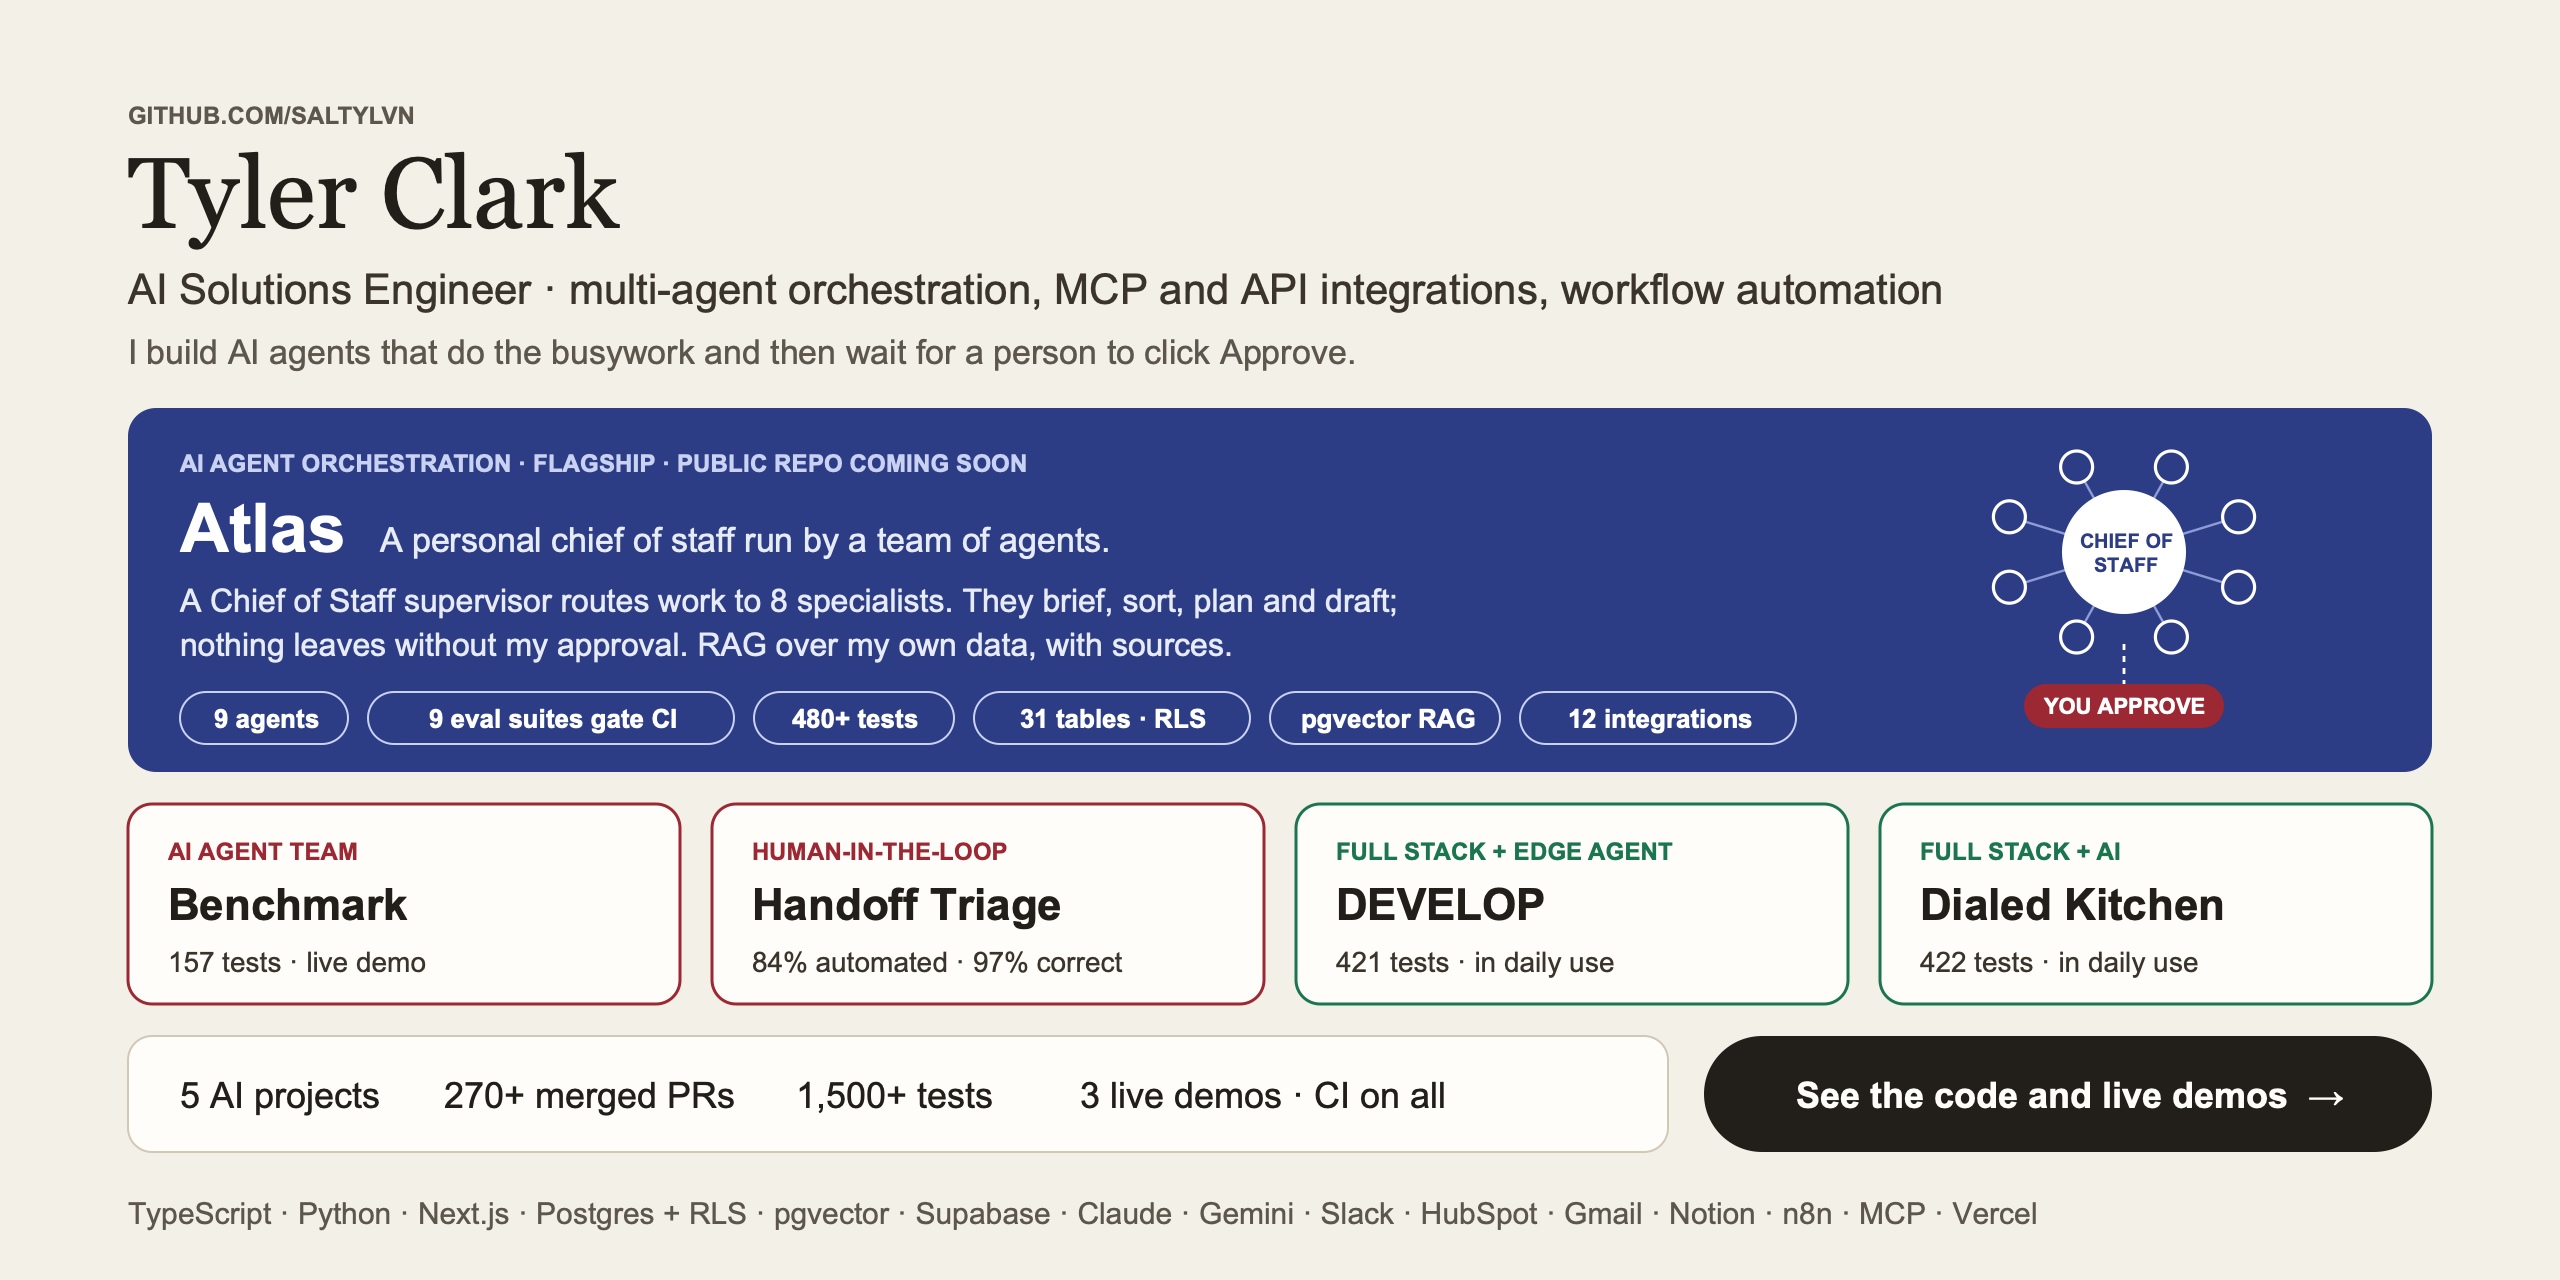
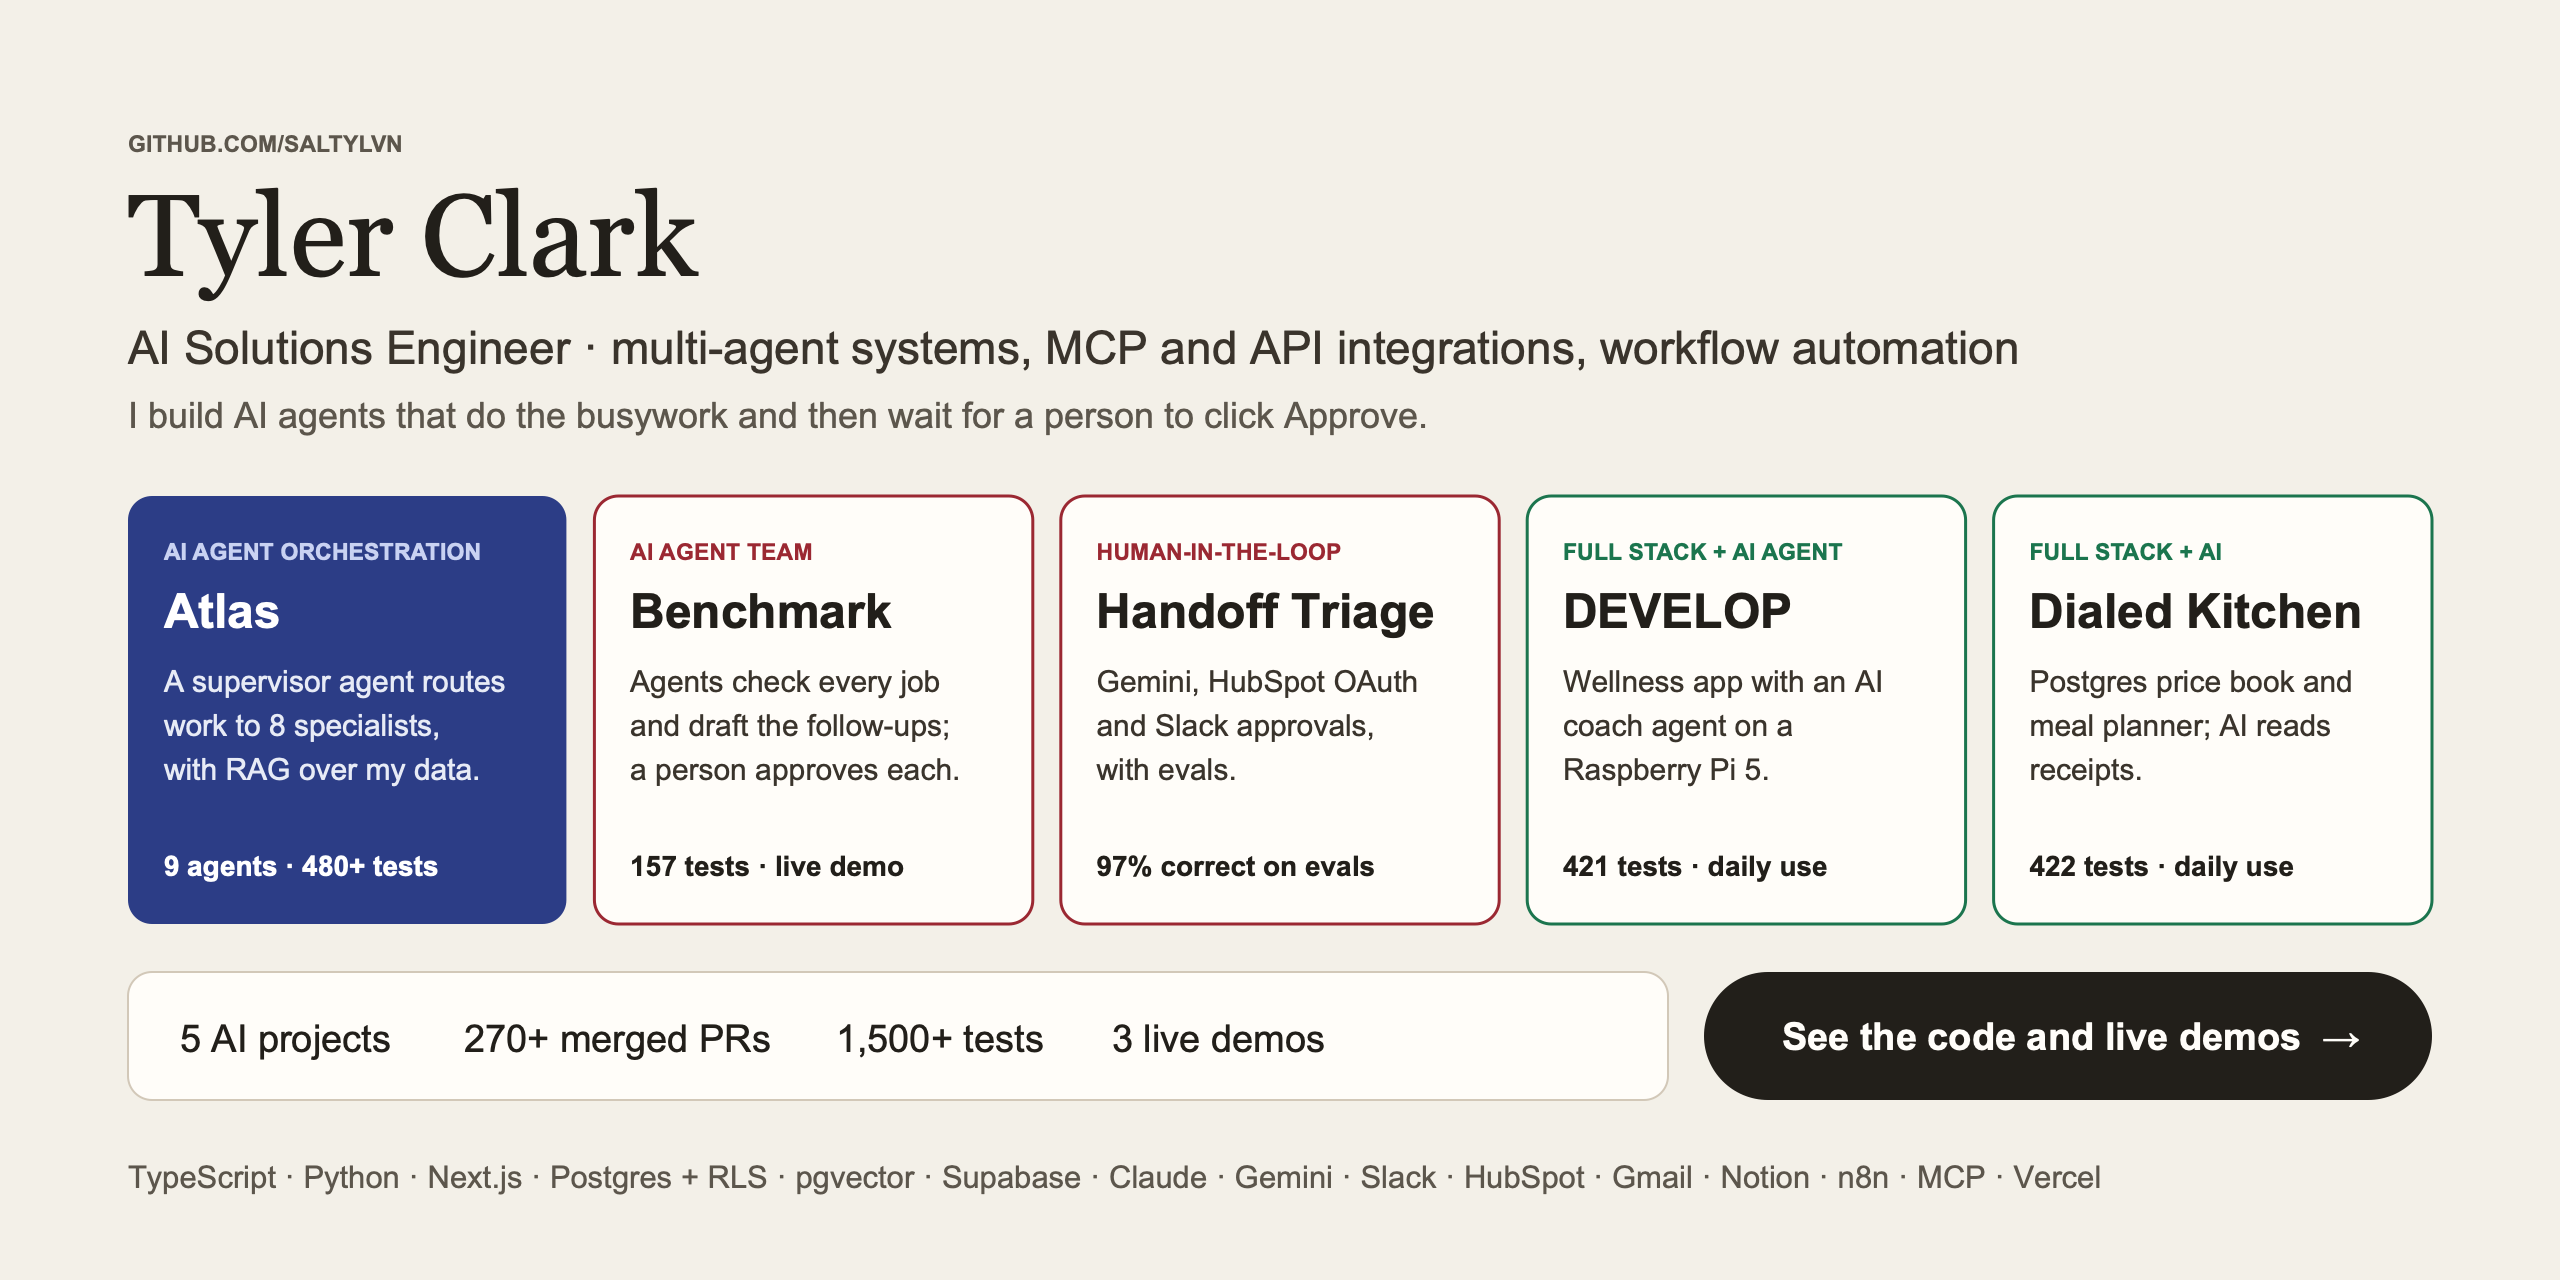
Tone down Atlas and show it as one of five projects
Drop "flagship" and the superlative from the Atlas section and give it
the same format as the other projects (description, diagram, highlight
bullets, stack). Rebuild the social preview as five equal project cards.

diff --git a/README.md b/README.md
@@ -57,9 +57,9 @@ I ship everything with [Claude Code](https://claude.com/claude-code) as my daily
 
 ## AI agents and workflows
 
-### Atlas · flagship AI agent orchestration (public repo coming soon)
+### Atlas · public repo coming soon
 
-**A personal chief of staff run by a team of nine agents, and the most complete system I've built.** A Chief of Staff supervisor routes work to eight specialists, each with one job, its own tools and a written list of what it must never do. On a schedule they brief me twice a day, sort my inbox, plan the week, track renewals, condense the news and draft replies. Nothing leaves without me: drafts open in my own Mail or Messages app and I tap Send.
+**A personal chief of staff run by a team of agents.** A Chief of Staff supervisor routes work to eight specialists, each with one job, its own tools and a written list of what it must never do. On a schedule they brief me twice a day, sort my inbox, plan the week, track renewals, condense the news and draft replies. Nothing leaves without me: drafts open in my own Mail or Messages app and I tap Send.
 
 ```mermaid
 flowchart LR
@@ -73,14 +73,11 @@ flowchart LR
   kb[("Postgres full-text<br/>+ pgvector")] --> ask["Ask Atlas<br/>Claude answers with sources"]
 ```
 
-| | |
-|---|---|
-| **Orchestration** | Supervisor (hierarchical) pattern: specialists never call each other; the Chief of Staff routes work and assembles the briefs. A laptop Mission Control shows every agent's status, errors, cost today, Run Now and Pause, and a live map that lights up the orchestration as agents work |
-| **Evals and observability** | An eval suite for each agent (9 in all) scored against labeled cases; CI fails the build if any suite drops below its threshold. Every run leaves a step-by-step trace, and every action lands in an append-only audit trail |
-| **RAG** | **Ask Atlas** answers questions from my own data: hybrid search (Postgres full-text plus 384-dimension pgvector embeddings, fused), a similarity floor set from a live eval, then Claude writes only from the retrieved passages and cites them |
-| **Integrations** | 12 connectors: Gmail (headers only), Google Calendar and iCal, Notion, GitHub, Figma, RSS and news feeds, weather, web push to my iPhone and Siri capture ("Hey Siri, add to Atlas") |
-| **Safety** | Outbound kill switch, human approval on anything that leaves, Zod validation at every boundary, SSRF-safe fetching, Google sign-in with MFA, full data export |
-| **Data and quality** | 31 tables, all with row-level security, 16 versioned migrations, 480+ tests, lint and type check in CI, and a demo mode with fictional data. 60 merged pull requests |
+- **Orchestration:** a supervisor (hierarchical) pattern where specialists never call each other. A laptop Mission Control shows each agent's status, errors and cost, with Run Now, Pause and a live map of the orchestration as agents work.
+- **Evals and observability:** an eval suite for each agent (9 in all) scored against labeled cases, and CI fails the build if one drops below its threshold. Every run leaves a step-by-step trace, and every action lands in an append-only audit trail.
+- **RAG:** Ask Atlas answers questions from my own data with hybrid search (Postgres full-text plus pgvector embeddings, fused) and a similarity floor set from a live eval; Claude writes only from the retrieved passages and cites them.
+- **Integrations and safety:** 12 connectors (Gmail headers only, Google Calendar and iCal, Notion, GitHub, Figma, RSS and news feeds, web push, Siri capture), an outbound kill switch, Zod validation at every boundary, SSRF-safe fetching, and Google sign-in with MFA.
+- **Data and quality:** 31 tables, all with row-level security, 16 versioned migrations, 480+ tests, and 60 merged pull requests.
 
 `Next.js 16` `React 19` `TypeScript` `Supabase (Postgres, Auth, RLS)` `pgvector` `Claude (Anthropic SDK)` `Gemini` `Zod` `imapflow` `web-push` `Vercel cron` `Vitest` `GitHub Actions`
 
